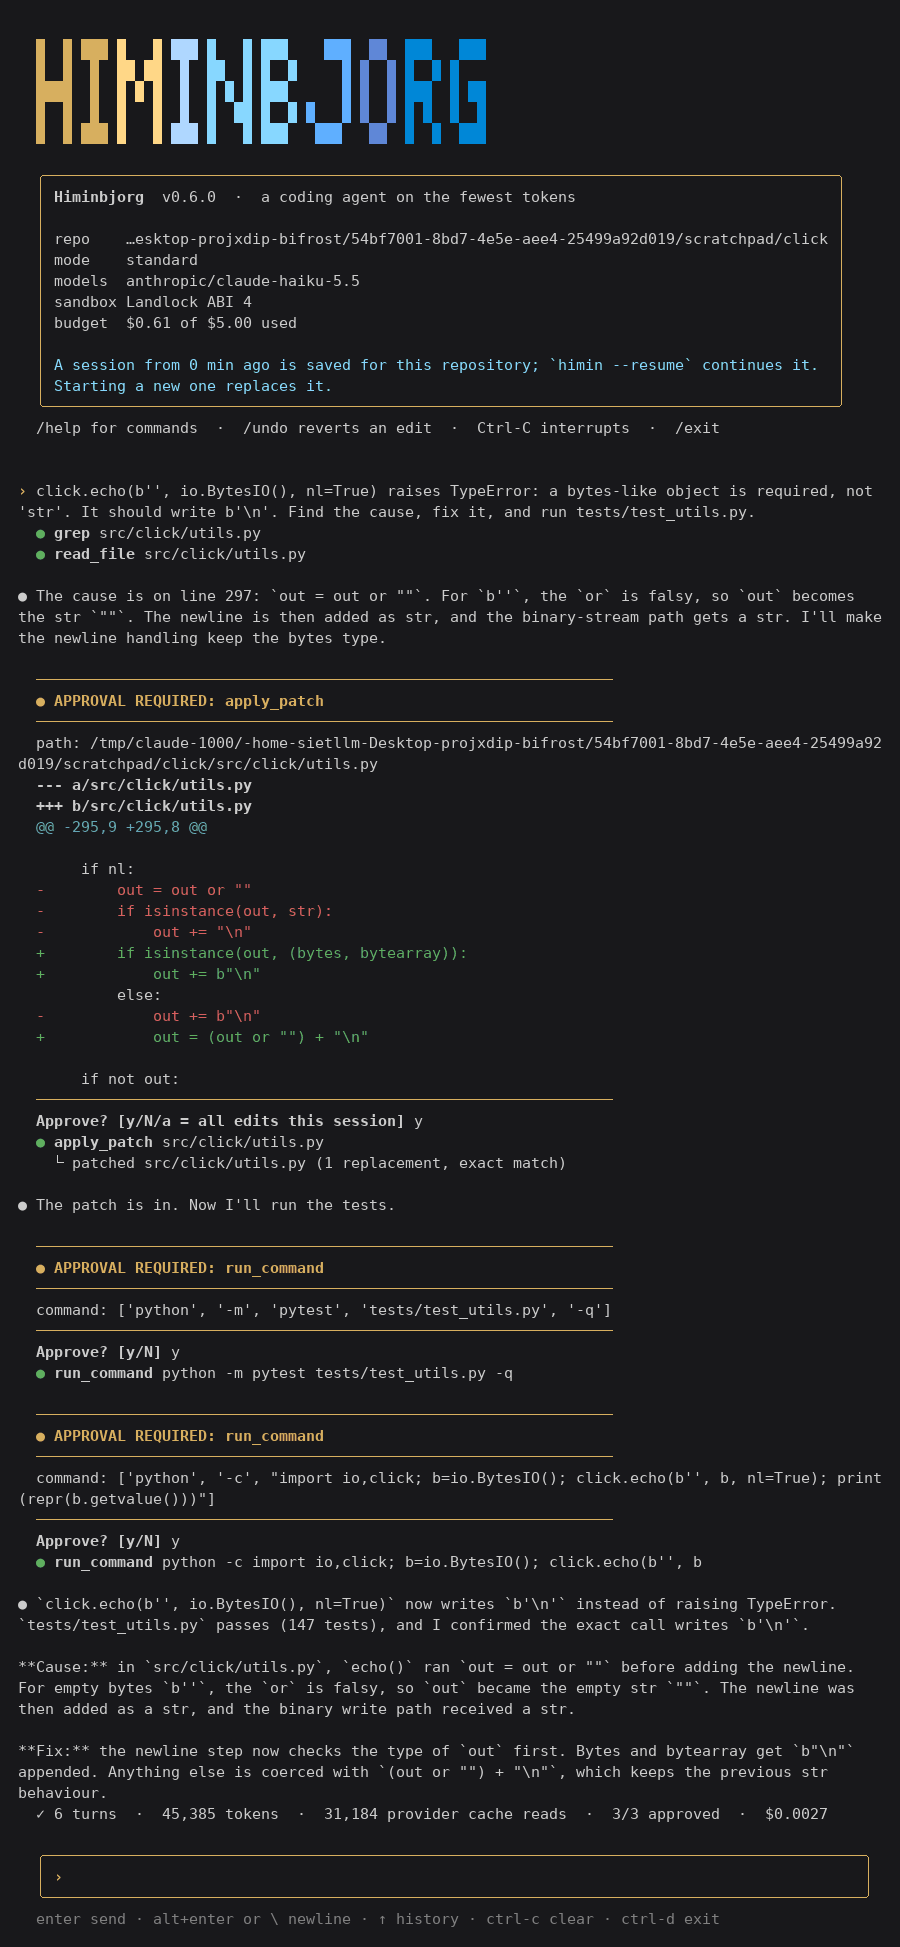
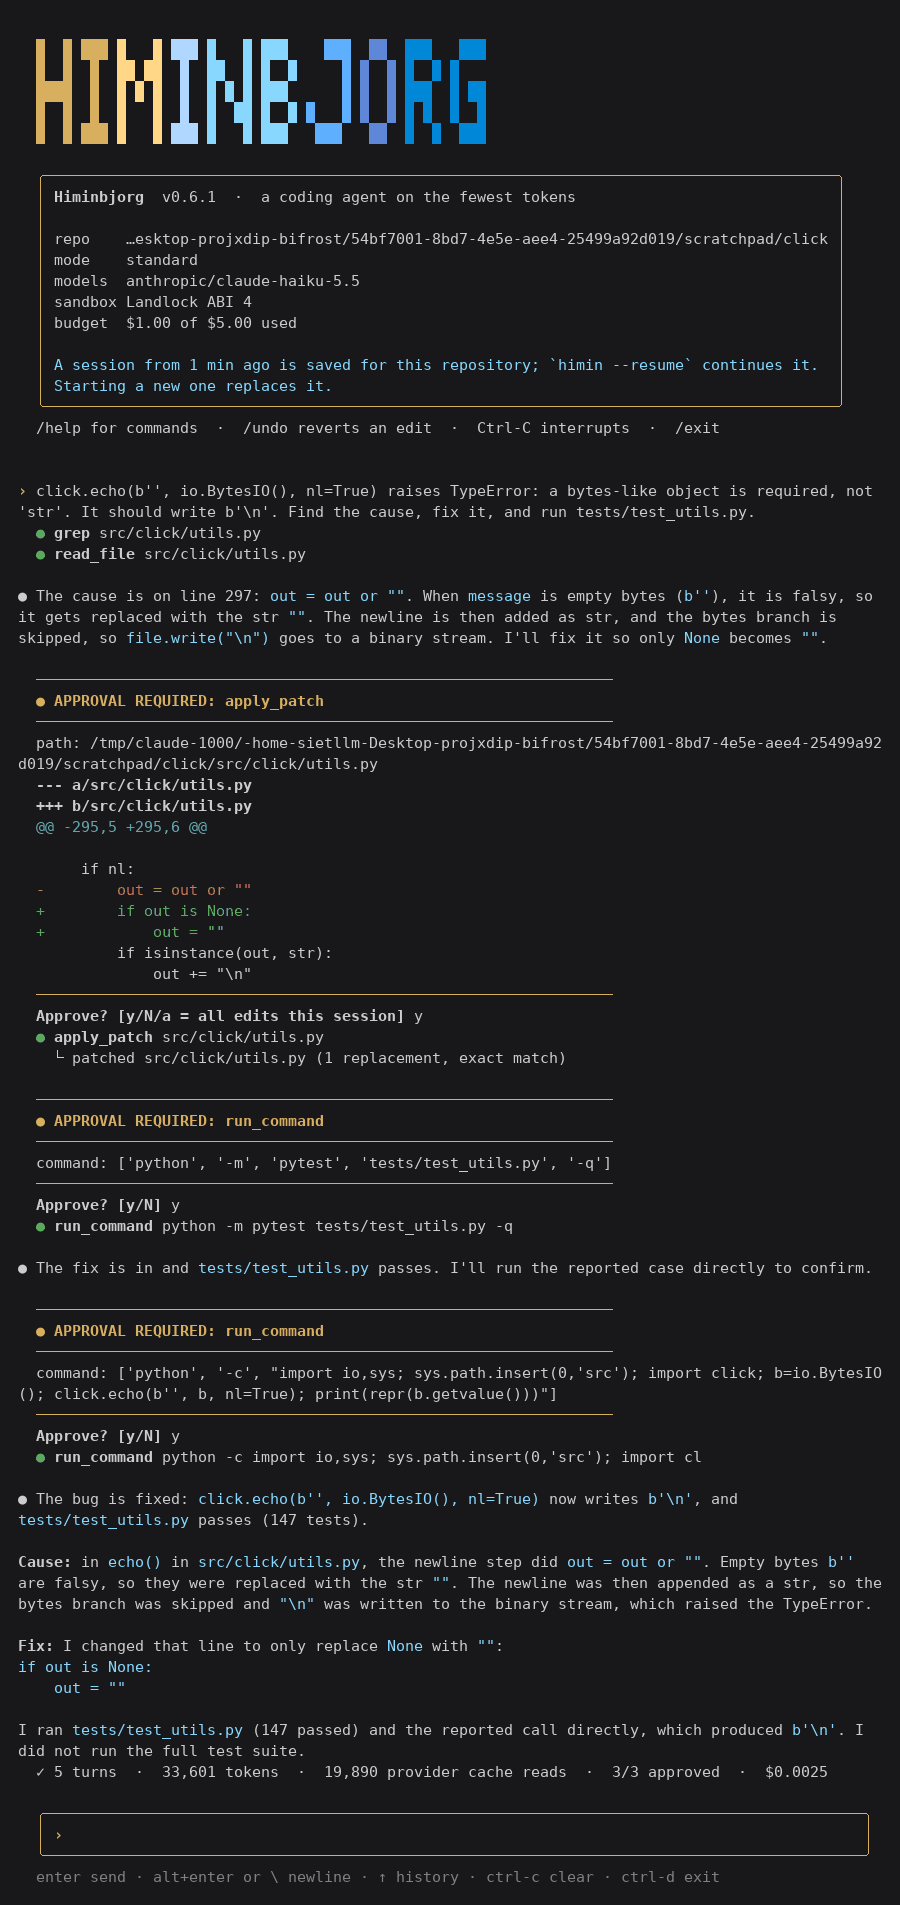
Show the formatted terminal output in the README

diff --git a/README.md b/README.md
@@ -116,7 +116,7 @@ make agent TASK="what does divide() do wrong?" REPO=bench/seed
 
 ## Usage
 
-![himin fixing a real click bug with Claude Haiku: it finds the cause, shows the diff for approval, runs the tests and explains the fix, for $0.0027](docs/images/cli.png)
+![himin fixing a real click bug with Claude Haiku: it finds the cause, shows the diff for approval, runs the tests and explains the fix, for $0.0025](docs/images/cli.png)
 
 *A real session on [click](https://github.com/pallets/click) at the
 commit before its maintainers fixed
@@ -126,8 +126,10 @@ their test for it and the rest of click's suite, 1,631 tests in all.*
 `himin` opens with the repository, mode, models, sandbox and budget,
 then a bordered input box: Enter sends, Alt+Enter or a trailing `\`
 starts a new line, ↑ recalls an earlier task, Ctrl-C clears the box and
-Ctrl-D quits. Each tool call is one line with its result under it, and
-an approval shows the exact diff in colour. A greeting gets a reply
+Ctrl-D quits. Each tool call is one line with its result under it, an
+approval shows the exact diff in colour, and answers are formatted as
+they stream: code in colour, bold, lists and code blocks, without the
+Markdown marks (piped output keeps them). A greeting gets a reply
 without a model call.
 
 In a session each task continues the same conversation, so "now add a
